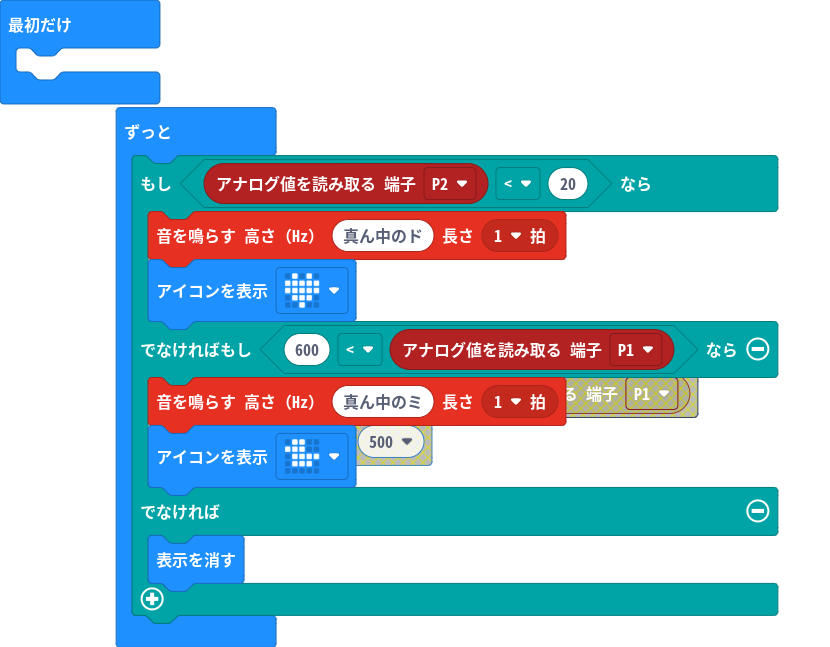
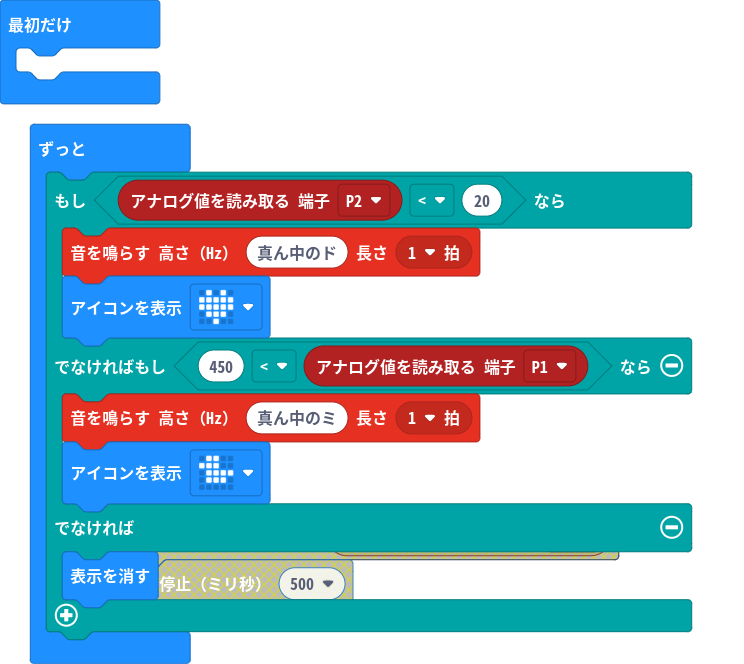
Update main.blocks, main.ts

diff --git a/main.ts b/main.ts
@@ -2,7 +2,7 @@ basic.forever(function () {
     if (pins.analogReadPin(AnalogPin.P2) < 20) {
         music.playTone(262, music.beat(BeatFraction.Whole))
         basic.showIcon(IconNames.Heart)
-    } else if (600 < pins.analogReadPin(AnalogPin.P1)) {
+    } else if (450 < pins.analogReadPin(AnalogPin.P1)) {
         music.playTone(330, music.beat(BeatFraction.Whole))
         basic.showIcon(IconNames.Duck)
     } else {
